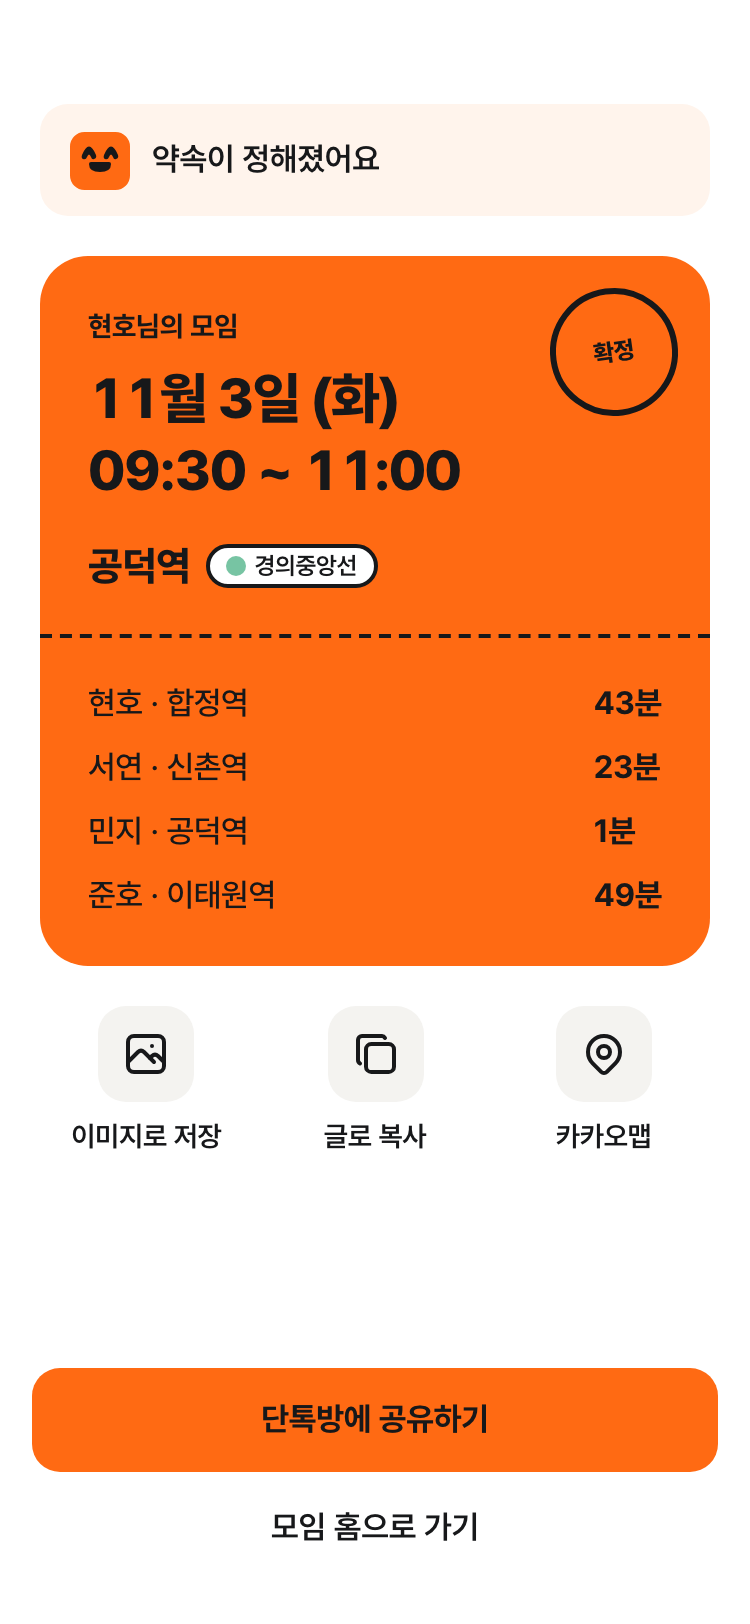
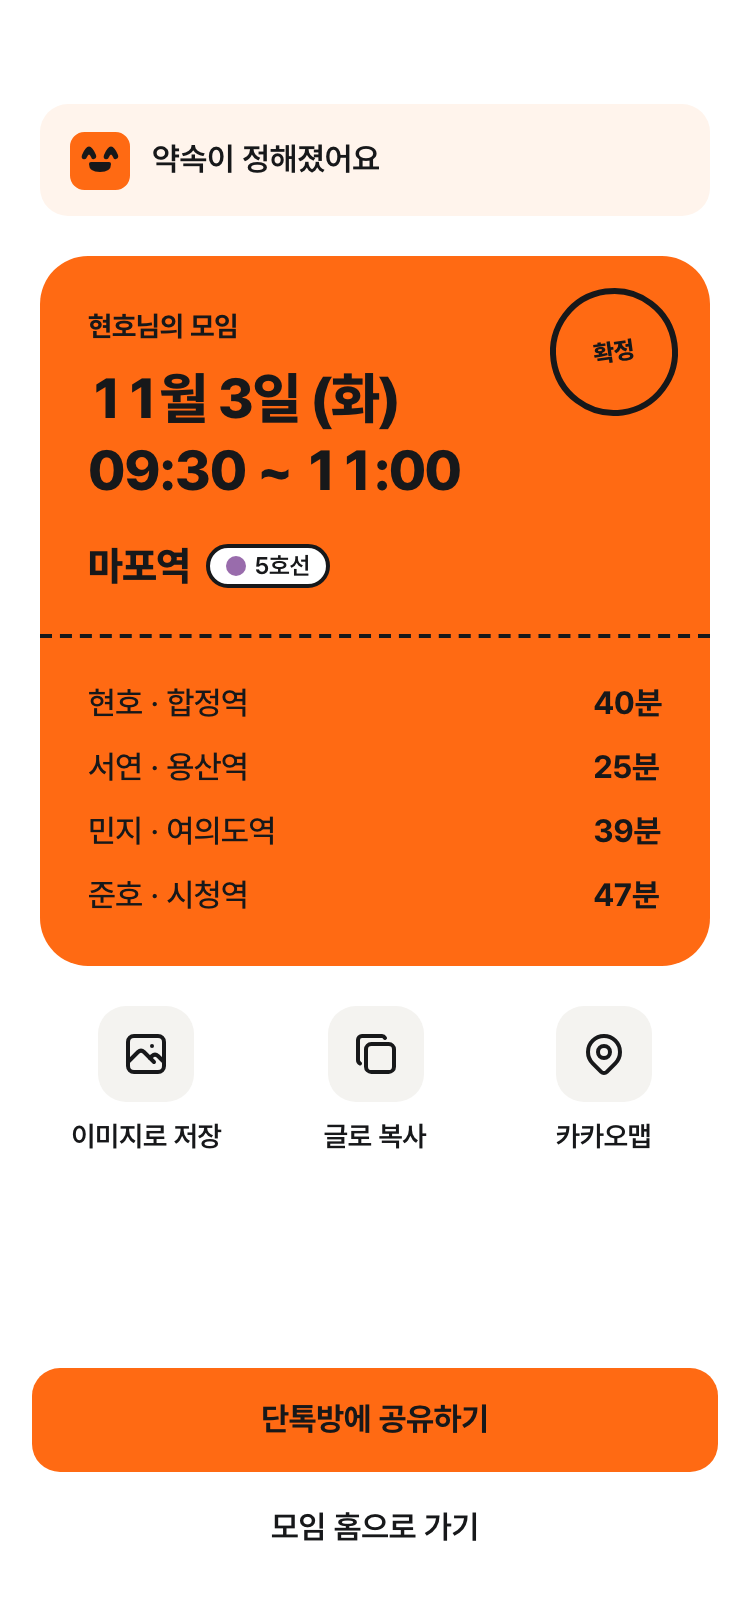
test(app): 캡처 출발지를 역 이름이 겹치지 않는 조합으로
Claude-Session: https://claude.ai/code/session_01LcqnJLJ9tmhE7G2jz9EpLE

diff --git a/app/e2e/capture-screens.spec.ts b/app/e2e/capture-screens.spec.ts
@@ -15,12 +15,12 @@ const KEYS = {
   민지: "capshotminji000000001",
   준호: "capshotjunho000000001",
 };
-// 이동 시간이 20~45분쯤 나오도록 마포, 서대문, 용산에 모여 있는 출발지를 쓴다(목 이동 시간은 거리로 계산한다).
+// 이동 시간이 20~45분쯤 나오도록 서울 서북쪽에 모여 있는 출발지를 쓴다(목 이동 시간은 거리로 계산한다). 같은 이름의 역이 노선마다 겹쳐 나오지 않는 조합이다.
 const PLACES = {
   현호: { label: "합정역", lat: 37.5497, lng: 126.9137 },
-  서연: { label: "신촌역", lat: 37.5551, lng: 126.9368 },
-  민지: { label: "공덕역", lat: 37.544, lng: 126.9516 },
-  준호: { label: "이태원역", lat: 37.5345, lng: 126.9945 },
+  서연: { label: "용산역", lat: 37.5299, lng: 126.9648 },
+  민지: { label: "여의도역", lat: 37.5216, lng: 126.9243 },
+  준호: { label: "시청역", lat: 37.5657, lng: 126.9769 },
 } as const;
 type Name = keyof typeof PLACES;
 
